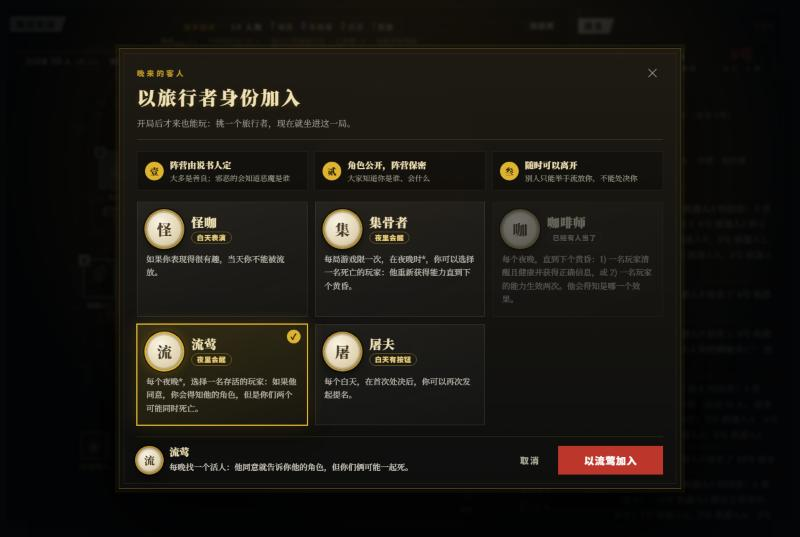
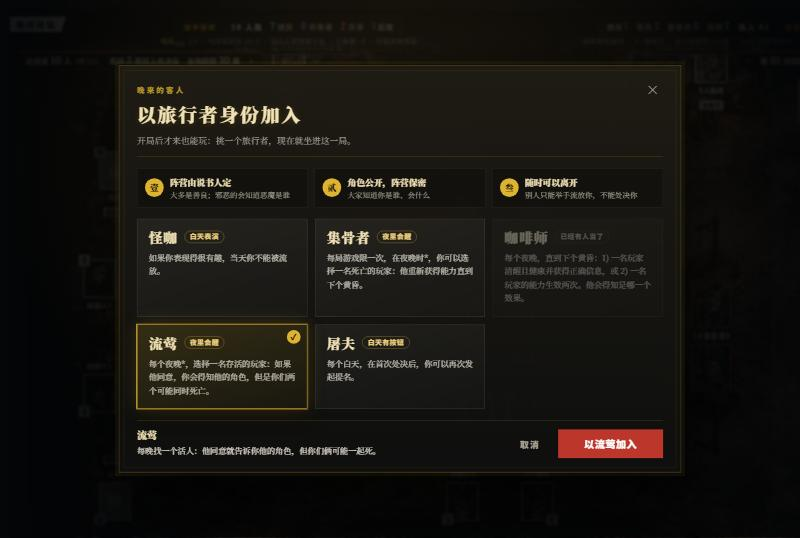
旅行者加入页：卡片去掉圆形标记，只写名字（用户：旅行者不一样）

diff --git a/client/src/styles.css b/client/src/styles.css
@@ -2264,8 +2264,8 @@ span.lr-newbie { cursor: default; }
 .trv-rules span { font-size: 12px; color: var(--muted); line-height: 1.45; }
 
 .trv-grid { display: grid; grid-template-columns: repeat(auto-fill, minmax(250px, 1fr)); gap: 12px; }
-.trv-card { position: relative; display: grid; grid-template-columns: 58px 1fr; grid-template-rows: auto 1fr; column-gap: 14px; row-gap: 8px; align-items: start;
-  text-align: left; padding: 14px 14px 16px; color: var(--cream); cursor: pointer; min-height: 132px;
+.trv-card { position: relative; display: grid; grid-template-rows: auto 1fr; row-gap: 10px; align-items: start;
+  text-align: left; padding: 16px 18px 18px; border-top: 3px solid rgba(226, 181, 44, .35); color: var(--cream); cursor: pointer; min-height: 132px;
   background: linear-gradient(160deg, rgba(255, 255, 255, .055), rgba(255, 255, 255, .015)); border: 1px solid rgba(233, 228, 216, .12);
   transition: transform .15s ease, border-color .15s, box-shadow .15s, background .15s; }
 .trv-card:hover:not(:disabled) { transform: translateY(-2px); border-color: rgba(226, 181, 44, .45); box-shadow: 0 10px 24px rgba(0, 0, 0, .45); }
@@ -2273,11 +2273,11 @@ span.lr-newbie { cursor: default; }
   box-shadow: 0 0 0 1px var(--mot), 0 0 28px rgba(226, 181, 44, .22), 0 12px 26px rgba(0, 0, 0, .5); }
 .trv-card:disabled { opacity: .4; cursor: not-allowed; filter: grayscale(.6); }
 .trv-card:focus-visible { outline: 2px solid var(--mot); outline-offset: 3px; }
-.trv-card-head { display: grid; gap: 4px; align-self: center; }
-.trv-name { font: 900 20px/1.15 var(--serif); color: #f3e3b5; letter-spacing: .04em; }
-.trv-tag { justify-self: start; font: 11px/1.6 var(--sans); letter-spacing: .06em; color: #f0d27a; padding: 0 8px; border: 1px solid rgba(226, 181, 44, .45); border-radius: 999px; }
+.trv-card-head { display: flex; align-items: center; gap: 10px; flex-wrap: wrap; padding-right: 22px; }
+.trv-name { font: 900 22px/1.15 var(--serif); color: #f3e3b5; letter-spacing: .06em; }
+.trv-tag { font: 11px/1.6 var(--sans); letter-spacing: .06em; color: #f0d27a; padding: 0 8px; border: 1px solid rgba(226, 181, 44, .45); border-radius: 999px; }
 .trv-tag.off { color: var(--muted); border-color: var(--line); }
-.trv-card .trv-ability { grid-column: 1 / -1; font-size: 13px; line-height: 1.65; color: rgba(233, 228, 216, .86); }
+.trv-card .trv-ability { font-size: 13px; line-height: 1.65; color: rgba(233, 228, 216, .86); }
 .trv-check { position: absolute; top: 8px; right: 10px; width: 22px; height: 22px; display: grid; place-items: center; font: 900 13px/1 var(--sans); color: #1d1606; background: var(--mot); border-radius: 50%; }
 .trv-token { width: 58px; height: 58px; flex: none; border-radius: 50%; display: grid; place-items: center; font: 900 24px/1 var(--serif); color: #4a3d26;
   background: radial-gradient(circle at 38% 32%, #fbf5e4, #e3d5b2 62%, #c4b086); box-shadow: inset 0 0 0 3px rgba(74, 61, 38, .22), 0 0 0 3px #b8912c, 0 0 0 5px rgba(0, 0, 0, .55), 0 8px 16px rgba(0, 0, 0, .5); }

diff --git a/client/src/Travellers.jsx b/client/src/Travellers.jsx
@@ -27,7 +27,7 @@ const HOW = {
 
 /**
  * 观战的人：以旅行者身份加入。卡片网格（2026-11-20 用户：这个布局就很好，只是要美化）：
- * 每张卡片是羊皮纸标记 + 名字 + 什么时候要操作 + 能力；选中的卡片描金。底栏写选了谁、在这里怎么玩，再「以 X 加入」。
+ * 每张卡片是名字 + 什么时候要操作 + 能力（不画圆形标记：旅行者不是普通角色，用户 2026-11-20 说只要名字）；选中的卡片描金。底栏写选了谁、在这里怎么玩，再「以 X 加入」。
  */
 export function TravellerJoin({ s, act }) {
   const [open, setOpen] = useState(false);
@@ -62,7 +62,6 @@ export function TravellerJoin({ s, act }) {
         <div className="trv-grid">
           {s.travellers.map((t) => (
             <button key={t.id} type="button" disabled={t.taken} className={`trv-card${pick === t.id ? ' on' : ''}`} aria-pressed={pick === t.id} onClick={() => setPick(t.id)}>
-              <span className="trv-token" aria-hidden="true">{[...t.name][0]}</span>
               <span className="trv-card-head">
                 <span className="trv-name">{t.name}</span>
                 <span className={`trv-tag${t.taken ? ' off' : ''}`}>{t.taken ? '已经有人当了' : HOW[t.id]?.[0] ?? '旅行者'}</span>
@@ -75,7 +74,6 @@ export function TravellerJoin({ s, act }) {
         <footer className={`trv-foot${chosen ? ' on' : ''}`}>
           {chosen ? (
             <div className="trv-chosen">
-              <span className="trv-token sm" aria-hidden="true">{[...chosen.name][0]}</span>
               <div><b>{chosen.name}</b>{HOW[chosen.id] && <span>{HOW[chosen.id][1]}</span>}</div>
             </div>
           ) : <span className="trv-hint">点一张卡片挑一个旅行者</span>}

diff --git a/design/screens-1024/README.md b/design/screens-1024/README.md
@@ -321,4 +321,4 @@
 | 340-分享卡片英文 | 分享到 Discord、微信等时的卡片（og:image，1200×630），中文页 og-zh.png、英文页 og-en.png；原来用的是宣传片封面 |
 | 341-旅行者加入弹窗 | 观战的人点「以旅行者身份加入」：原来是夜晚面板里挤着的一列字，改成弹窗——三条规则（阵营由说书人定 / 角色公开阵营不公开 / 随时可以离开、只能被流放），每个旅行者一张卡片（还没画牌，先用首字的羊皮纸标记），底部「加入这一局」。夜半狂欢借梦殒春宵的五个旅行者 |
 | 342-旅行者加入左列表右详情 | 旅行者页面再改（用户：优化 UI）：三条规则横排；左边旅行者列表（标记 + 名字 + 什么时候要操作：夜里会醒 / 白天有按钮 / 不用操作……，有人当了变灰）；右边详情：大标记、能力原文、「在这里怎么玩」一句话，按钮写「以屠夫加入」。手机上列表两列、详情在下面 |
-| 343-旅行者加入卡片美化 | 用户说卡片布局（341）就好、只是丑：回到卡片网格并美化——描金双框弹窗、规则三格带壹贰叁徽记、卡片是羊皮纸标记 + 大名字 + 「夜里会醒 / 白天有按钮」胶囊 + 能力，悬停微浮起，选中描金发光打勾；有人当了的变灰；底栏写选了谁和在这里怎么玩，按钮「以流莺加入」。342 的左列表右详情版不用了 |
+| 343-旅行者加入卡片美化 | 用户说卡片布局（341）就好、只是丑：回到卡片网格并美化——描金双框弹窗、规则三格带壹贰叁徽记、卡片只写名字（不画圆形标记，用户：旅行者不一样）+ 「夜里会醒 / 白天有按钮」胶囊 + 能力，悬停微浮起，选中描金发光打勾；有人当了的变灰；底栏写选了谁和在这里怎么玩，按钮「以流莺加入」。342 的左列表右详情版不用了 |
